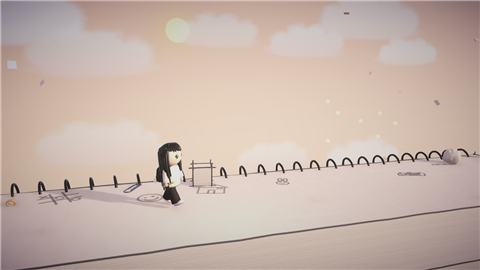
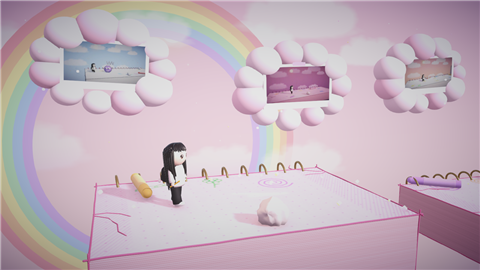
الصفحة الأخيرة صارت وردية وسعيدة وفيها ذكريات
- ورق وردي بنقاط وردية وحلقات ذهبية، وقليتر يلمع على الصفحات
- سما وردية بنفسجية، لمعات ملونة طايرة، وقوس قزح باستيل كبير ورا
- غيوم منفوخة فوق الطريق، وفي كل غيمة صورة فورية فيها ذكرى: صور المراحل اللي عدّتها رويدا والرسومات اللي رسمتيها
- عقبات: حفرة، أرض تختفي، صفحتين طايرة تتحرك، طلعة تحتاج منحدر، وحفرة قبل الباب
- صورة جديدة للمرحلة في شاشة المراحل

diff --git a/Assets/Scripts/MemoryClouds.cs b/Assets/Scripts/MemoryClouds.cs
@@ -1,0 +1,145 @@
+using System.Collections.Generic;
+using UnityEngine;
+
+// الصفحة الأخيرة: غيوم منفوخة فوق الطريق، وفي كل غيمة إطار صورة فيه ذكرى من رحلة رويدا
+// (صور المراحل اللي عدّتها، والرسومات اللي رسمتيها)
+public static class MemoryClouds
+{
+    public static void Build(Transform root, LevelData data, GameManager gm)
+    {
+        if (!data.memoryClouds) return;
+
+        // الذكريات: رسومات اللاعبة أول (إذا فيه)، وبعدها صور المراحل
+        var drawings = new List<Texture>();
+        int seed = 300;
+        foreach (int level in DrawingMemory.Levels())
+            if (level < Levels.All.Count - 1) drawings.Add(DrawingMemory.PageFor(level, seed++, 900f));
+        var thumbs = new List<Texture>();
+        for (int i = 0; i < Levels.All.Count - 1; i++)
+        {
+            var thumb = Resources.Load<Texture2D>("LevelThumbs/level_" + i);
+            if (thumb != null) thumbs.Add(thumb);
+        }
+        // صورة مرحلة، بعدين رسمة، بعدين صورة... (يتناوبون)
+        var mixed = new List<Texture>();
+        for (int i = 0; i < Mathf.Max(drawings.Count, thumbs.Count); i++)
+        {
+            if (i < thumbs.Count) mixed.Add(thumbs[i]);
+            if (i < drawings.Count) mixed.Add(drawings[i]);
+        }
+
+        // قوس قزح باستيل كبير في السما (يمشي مع الكاميرا مثل الأشياء البعيدة)
+        var sky = new GameObject("Rainbow").transform;
+        sky.SetParent(root, false);
+        sky.gameObject.AddComponent<ParallaxFollow>().factor = 0.92f;
+        Color[] bands =
+        {
+            new Color(1f, 0.6f, 0.65f), new Color(1f, 0.78f, 0.55f), new Color(1f, 0.95f, 0.6f),
+            new Color(0.65f, 0.92f, 0.7f), new Color(0.6f, 0.8f, 1f), new Color(0.78f, 0.65f, 1f),
+        };
+        for (int b = 0; b < bands.Length; b++)
+        {
+            var band = new Material(Shader.Find("Universal Render Pipeline/Unlit")) { name = "Rainbow Band" };
+            band.SetColor("_BaseColor", bands[b] * 1.05f);
+            var ring = new GameObject("Band");
+            ring.transform.SetParent(sky, false);
+            ring.transform.localPosition = new Vector3(10f, -14f, 70f);
+            ring.transform.localRotation = Quaternion.Euler(0f, 90f, 0f);   // محور الحلقة x: نلفها تواجه الكاميرا
+            ring.AddComponent<MeshFilter>().sharedMesh = PaperMeshes.Ring(30f - b * 1.6f, 0.8f, 64, 4);
+            ring.AddComponent<MeshRenderer>().sharedMaterial = band;
+        }
+
+        Material cloud = gm.Mat("Memory Cloud", new Color(1f, 0.96f, 0.98f), 0.25f);
+        Material cloudPink = gm.Mat("Memory Cloud Pink", new Color(1f, 0.86f, 0.92f), 0.25f);
+        Material frame = gm.Mat("Memory Frame", new Color(1f, 0.99f, 0.97f), 0.4f);
+        Material tape = gm.Mat("Memory Tape", new Color(1f, 0.75f, 0.85f), 0.2f);
+        Shader unlit = Shader.Find("Universal Render Pipeline/Unlit");
+
+        float startX = data.spawn.x + 3f, endX = data.door.x + 2f;
+        int count = Mathf.Min(mixed.Count, 9);
+        var rng = new System.Random(77);
+        for (int i = 0; i < count; i++)
+        {
+            float x = Mathf.Lerp(startX, endX, count == 1 ? 0f : i / (count - 1f));
+            float y = 3.1f + (i % 2) * 0.55f;
+            var go = new GameObject("Memory Cloud");
+            go.transform.SetParent(root, false);
+            go.transform.position = new Vector3(x, y, 5f + (i % 2) * 0.8f);
+            go.AddComponent<FloatBob>().phase = i * 1.3f;
+
+            // الغيمة: كور منفوخة حول الصورة
+            for (int k = 0; k < 11; k++)
+            {
+                float a = k / 11f * Mathf.PI * 2f;
+                Vector3 p = new Vector3(Mathf.Cos(a) * 1.8f, Mathf.Sin(a) * 1.2f - 0.1f, 0.35f);
+                float s = 0.9f + (float)rng.NextDouble() * 0.6f;
+                LevelBuilder.Visual("Puff", PrimitiveType.Sphere, go.transform, p, new Vector3(s, s * 0.85f, s * 0.8f), k % 3 == 0 ? cloudPink : cloud, false);
+            }
+
+            // إطار صورة (مثل صورة فورية) وشريط لاصق
+            Texture tex = mixed[i];
+            float aspect = (float)tex.width / tex.height;
+            Vector2 size = aspect > 1f ? new Vector2(2.5f, 2.5f / aspect) : new Vector2(1.6f * aspect, 1.6f);
+            LevelBuilder.Visual("Frame", PrimitiveType.Cube, go.transform, new Vector3(0f, -0.05f, 0.02f), new Vector3(size.x + 0.22f, size.y + 0.34f, 0.04f), frame, false);
+            var pic = new Material(unlit) { name = "Memory Picture" };
+            pic.SetTexture("_BaseMap", tex);
+            pic.SetColor("_BaseColor", Color.white);
+            var quad = LevelBuilder.Visual("Picture", PrimitiveType.Quad, go.transform, new Vector3(0f, 0.02f, -0.01f), new Vector3(size.x, size.y, 1f), pic, false);
+            var t2 = LevelBuilder.Visual("Tape", PrimitiveType.Cube, go.transform, new Vector3(0f, size.y * 0.5f + 0.12f, -0.03f), new Vector3(0.5f, 0.14f, 0.01f), tape, false);
+            t2.transform.localRotation = Quaternion.Euler(0f, 0f, ((float)rng.NextDouble() - 0.5f) * 20f);
+            go.transform.localRotation = Quaternion.Euler(0f, 0f, ((float)rng.NextDouble() - 0.5f) * 8f);
+        }
+    }
+}
+
+// تطفو فوق وتحت بهدوء وتلمع حولها لمعات
+public class FloatBob : MonoBehaviour
+{
+    public float phase;
+    Vector3 home;
+    float nextSparkle;
+
+    void Start() { home = transform.position; }
+
+    void Update()
+    {
+        float t = Time.time + phase;
+        transform.position = home + new Vector3(Mathf.Sin(t * 0.5f) * 0.15f, Mathf.Sin(t * 0.9f) * 0.18f, 0f);
+        if (Time.time >= nextSparkle)
+        {
+            nextSparkle = Time.time + Random.Range(0.3f, 0.7f);
+            Fx.Sparkle(transform.position + new Vector3(Random.Range(-1.7f, 1.7f), Random.Range(-1.1f, 1.1f), -0.4f), new Color(1f, 0.8f, 0.9f), 3);
+        }
+    }
+}
+
+// قليتر: لمعات صغيرة تطلع من سطح الصفحة (بس لما تكون قريبة من الكاميرا)
+public class PageGlitter : MonoBehaviour
+{
+    static readonly Color[] Colors = { new Color(1f, 0.7f, 0.85f), new Color(1f, 0.9f, 0.5f), Color.white, new Color(0.85f, 0.7f, 1f) };
+    Bounds bounds;
+    float next;
+
+    void Start()
+    {
+        var r = GetComponent<Renderer>();
+        if (r != null) bounds = r.bounds;
+    }
+
+    void Update()
+    {
+        if (Time.time < next) return;
+        next = Time.time + Random.Range(0.025f, 0.07f);
+        Camera cam = Camera.main;
+        if (cam == null || Mathf.Abs(cam.transform.position.x - bounds.center.x) > bounds.extents.x + 12f) return;
+        Vector3 p = new Vector3(Random.Range(bounds.min.x, bounds.max.x), bounds.max.y + 0.03f, Random.Range(bounds.min.z, bounds.max.z));
+        var c = Colors[Random.Range(0, Colors.Length)];
+        Material m = GameManager.Instance.Mat("Glitter " + ColorUtility.ToHtmlStringRGB(c), c * 2.2f, 0.95f);
+        var g = LevelBuilder.Visual("Glitter", PrimitiveType.Cube, null, p, Vector3.one * Random.Range(0.05f, 0.09f), m, false);
+        g.transform.rotation = Quaternion.Euler(0f, 45f, 45f);
+        var fx = g.AddComponent<FxParticle>();
+        fx.velocity = new Vector3(0f, Random.Range(0.1f, 0.4f), 0f);
+        fx.spin = new Vector3(0f, 200f, 0f);
+        fx.life = Random.Range(0.6f, 1.1f);
+    }
+}

diff --git a/Assets/Scripts/LevelData.cs b/Assets/Scripts/LevelData.cs
@@ -130,6 +130,7 @@ public class LevelData
     public float gravityScale = 1f;                         // الفضاء: جاذبية خفيفة (أقل من 1)
     public bool planets;                                    // الفضاء: كواكب كبيرة بالخلفية
     public bool drawDoor;                                   // الصفحة الأخيرة: ما فيه باب، اللاعبة ترسمه
+    public bool memoryClouds;                               // الصفحة الأخيرة: غيوم فيها ذكريات (صور ورسومات)
     public Vector2 meteorZone;                              // الفضاء: مطر نيازك بين x و x (صفر = ما فيه)
     public bool HasMeteors => meteorZone.y > meteorZone.x;
     public Vector3? blackHole;                              // الفضاء: مكان الثقب الأسود (null = ما فيه)
@@ -381,23 +382,33 @@ public static class Levels
         };
     }
 
-    // الصفحة الأخيرة: صفحة فاضية في الفجر، ما فيها باب... ترسمين الباب فوق الإطار المنقط، ينفتح، ورويدا ترجع لغرفتها
+    // الصفحة الأخيرة: وردية وتلمع بقليتر، وفوقها غيوم فيها ذكريات رويدا (صور المراحل ورسوماتك).
+    // فيها شوي من كل شي: حفرة، أرض تختفي، صفحات طايرة تتحرك، طلعة، وفي الآخر ترسمين باب البيت
     static LevelData LastPage()
     {
         return new LevelData
         {
             title = "الصفحة الأخيرة",
             theme = LevelTheme.LastPage(),
-            subtitle = "صفحة فاضية... ارسمي باب البيت عشان ترجع رويدا!",
+            subtitle = "آخر صفحة في الدفتر... عدّي كل شي وارسمي باب البيت!",
             spawn = new Vector3(-5f, 1f, 0f),
-            door = new Vector3(22f, 0f, 0f),
-            ink = 26f,
+            door = new Vector3(48f, 0f, 0f),
+            ink = 34f,
             drawDoor = true,
+            memoryClouds = true,
             bridgeHint = true,
             blocks =
             {
-                Page(-7f, 8f),          // حفرة 3
-                Page(11f, 28f),
+                Page(-7f, 6f),              // حفرة 3
+                Page(9f, 16f),              // فيها قطعة تختفي، وبعدها صفحات طايرة
+                Page(30f, 36f, 0.8f),       // طلعة (ارسمي منحدر)، وبعدها حفرة 3
+                Page(39f, 53f),
+            },
+            vanishTiles = { new Vector3(12f, 14.5f, 4f) },
+            floaters =
+            {
+                new FloaterSpec(19.5f, 3f, 1.2f, 4f, 0f),
+                new FloaterSpec(25.5f, 3f, 1.3f, 4.4f, 1.5f),
             },
         };
     }

diff --git a/Assets/Scripts/LevelTheme.cs b/Assets/Scripts/LevelTheme.cs
@@ -20,6 +20,7 @@ public class LevelTheme
     public Color pencil = new Color(0.33f, 0.33f, 0.36f);
     public bool rings = true;
     public bool snowCaps;                 // طبقة ثلج فوق الصفحات
+    public bool glitter;                  // الصفحات تلمع بقليتر
     public Color ringColor = new Color(0.2f, 0.2f, 0.22f);
 
     // السما
@@ -232,17 +233,19 @@ public class LevelTheme
         ringColor = new Color(0.75f, 0.78f, 0.95f),
     };
 
-    // الصفحة الأخيرة: ورق أبيض فاضي، وفجر هادي (السما وردية ذهبية) لأن رويدا قربت تصحى
+    // الصفحة الأخيرة: وردي وسعيد، ورق يلمع بقليتر، سما وردية بنفسجية، ولمعات طايرة
     public static LevelTheme LastPage() => new LevelTheme
     {
         name = "LastPage",
-        paper = new Color(0.99f, 0.98f, 0.96f), pattern = PaperPattern.Blank,
-        skyTop = new Color(0.55f, 0.68f, 0.95f), skyMid = new Color(1f, 0.78f, 0.68f), skyBottom = new Color(1f, 0.92f, 0.72f),
-        sun = true, moonColor = new Color(2.8f, 2.2f, 1.5f), stars = 0.1f, cloudTint = new Color(1.1f, 0.95f, 0.95f), cloudAlpha = 0.7f,
-        sunLight = new Color(1f, 0.88f, 0.75f), sunIntensity = 1.45f, sunAngles = new Vector3(20f, -50f, 0f),
-        ambientSky = new Color(0.9f, 0.8f, 0.82f), ambientEquator = new Color(0.75f, 0.65f, 0.68f), ambientGround = new Color(0.38f, 0.32f, 0.35f),
-        fog = new Color(1f, 0.88f, 0.8f), floating = FloatKind.Paper,
-        floatColors = new[] { Color.white, new Color(1f, 0.92f, 0.85f) },
+        paper = new Color(1f, 0.9f, 0.94f), pattern = PaperPattern.Dots, patternColor = new Color(1f, 0.62f, 0.78f), colorfulDoodles = true,
+        pageEdge = new Color(1f, 0.85f, 0.9f), pencil = new Color(0.85f, 0.4f, 0.6f), doodleColor = new Color(0.9f, 0.5f, 0.7f),
+        skyTop = new Color(0.88f, 0.62f, 0.92f), skyMid = new Color(1f, 0.78f, 0.9f), skyBottom = new Color(1f, 0.92f, 0.84f),
+        sun = true, moonColor = new Color(2.8f, 2.3f, 2.1f), stars = 0.35f, cloudTint = new Color(1.15f, 1.02f, 1.12f), cloudAlpha = 0.8f,
+        sunLight = new Color(1f, 0.92f, 0.95f), sunIntensity = 1.5f, sunAngles = new Vector3(30f, -40f, 0f),
+        ambientSky = new Color(1f, 0.85f, 0.93f), ambientEquator = new Color(0.86f, 0.7f, 0.8f), ambientGround = new Color(0.45f, 0.35f, 0.42f),
+        fog = new Color(1f, 0.86f, 0.93f), props = PropSet.Crayons, floating = FloatKind.Sparkles,
+        floatColors = new[] { new Color(1f, 0.6f, 0.8f), new Color(1f, 0.85f, 0.4f), Color.white, new Color(0.8f, 0.65f, 1f) },
+        ringColor = new Color(0.95f, 0.75f, 0.4f), glitter = true,
     };
 
     public Color PaperFor(int index)

diff --git a/Assets/Scripts/LevelBuilder.cs b/Assets/Scripts/LevelBuilder.cs
@@ -34,6 +34,7 @@ public static class LevelBuilder
         BuildFloaters(root.transform, data, gm, rng);
         SnowFeatures.Build(root.transform, data, gm, rng);
         SpaceFeatures.Build(root.transform, data, gm);
+        MemoryClouds.Build(root.transform, data, gm);
         return root;
     }
 
@@ -142,6 +143,11 @@ public static class LevelBuilder
         }
 
         if (data.theme.snowCaps) SnowCap(t, b.size, gm, rng);
+        if (data.theme.glitter)
+        {
+            top.SetFloat("_Smoothness", 0.6f);
+            go.AddComponent<PageGlitter>();
+        }
 
         // سلك الدفتر الحلزوني على الحافة الخلفية
         if (!data.theme.rings) return go;
